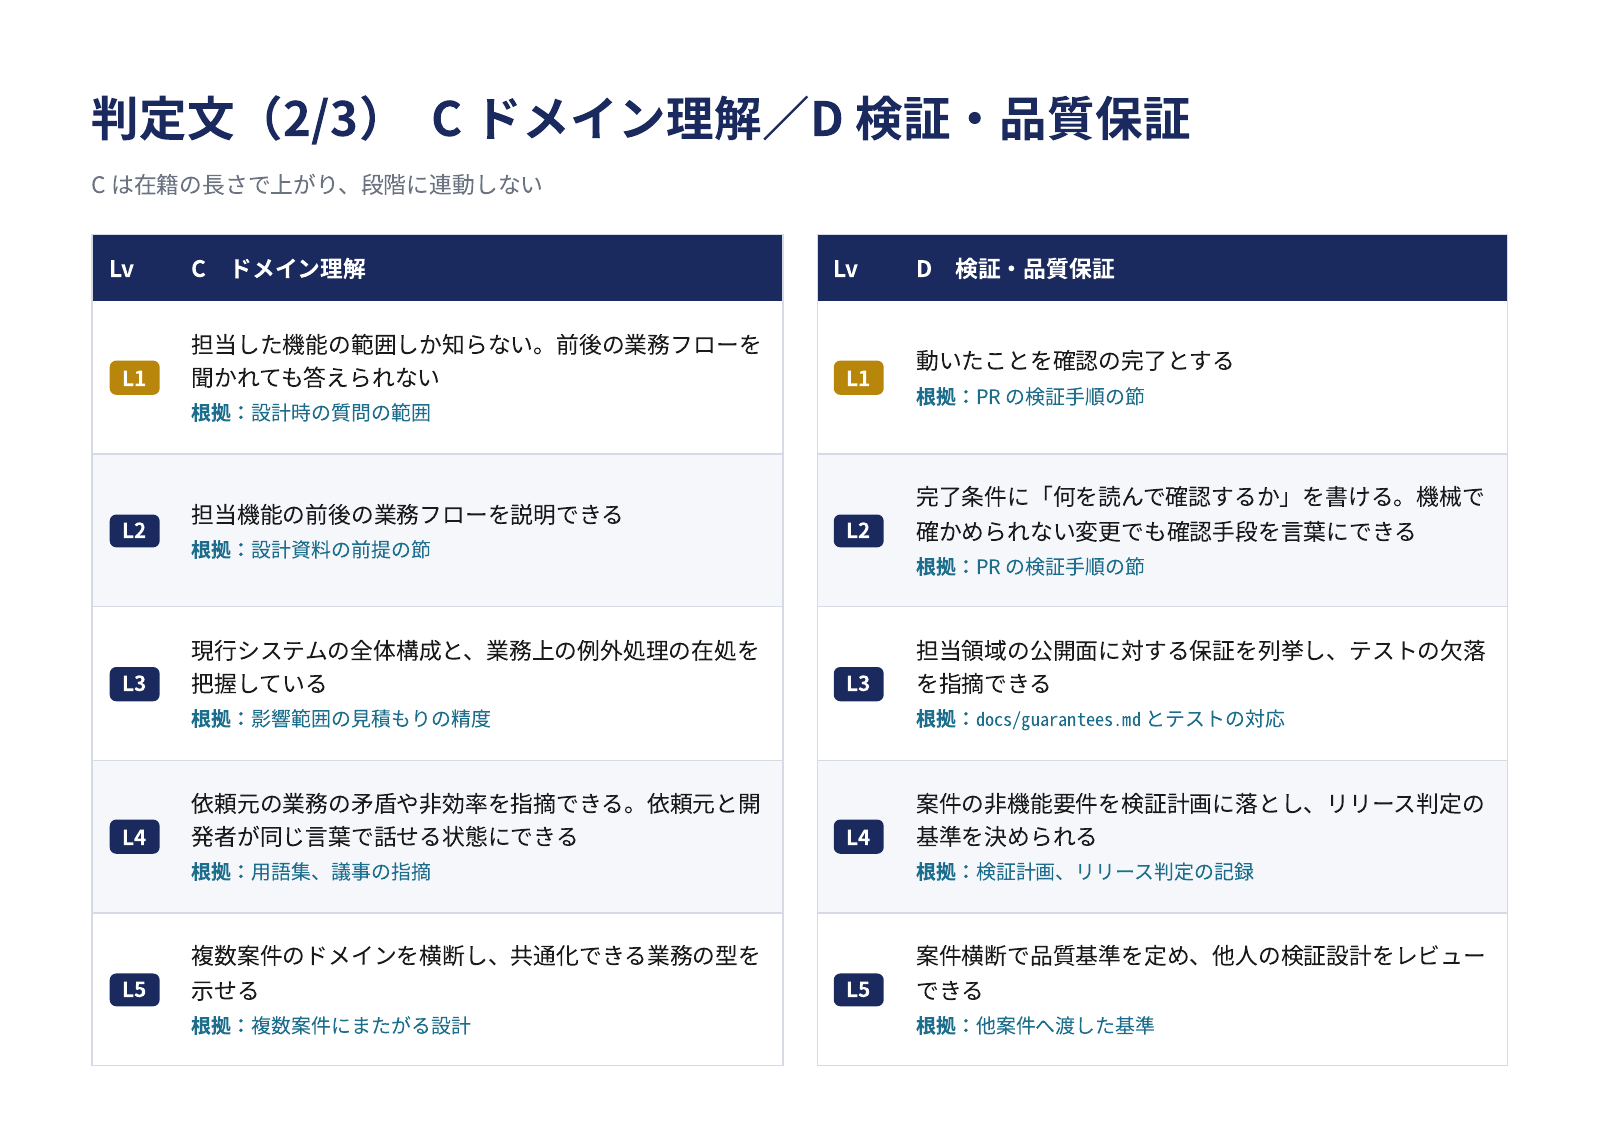
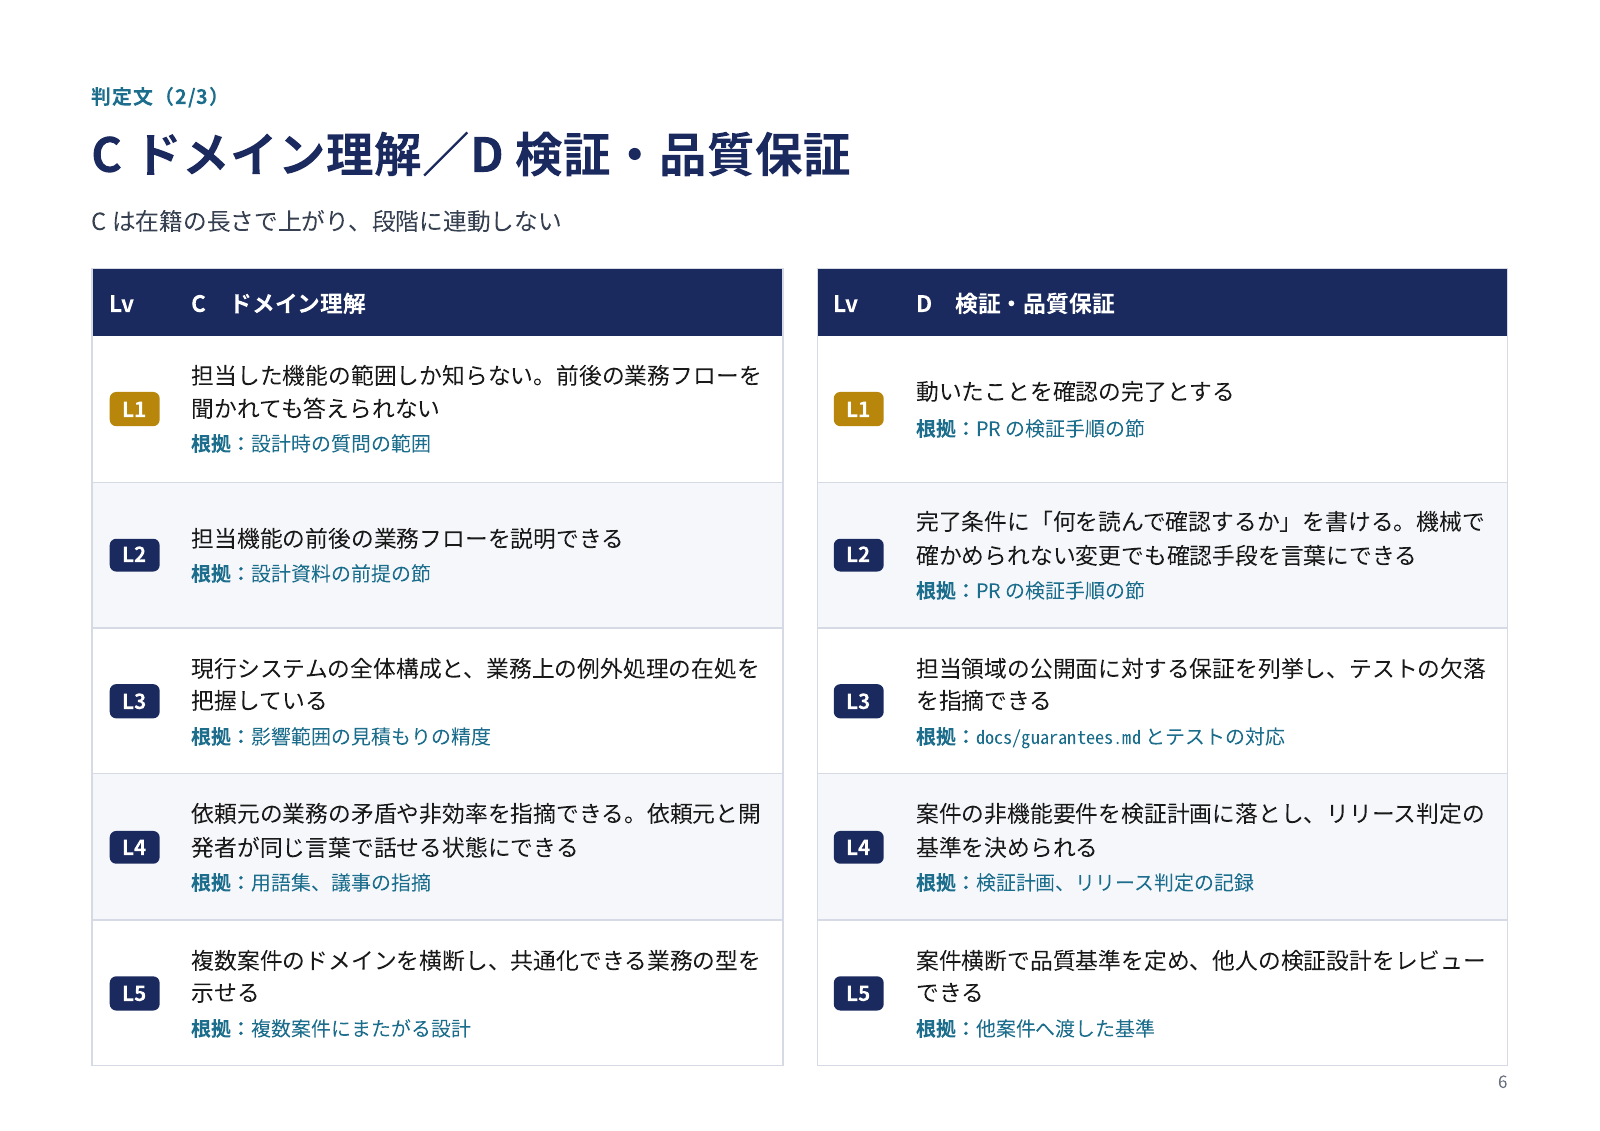
Add page numbers and section labels to ladder slides
training のスライドにそろえ、右下のページ番号とタイトル上の小見出しを足した。

- ページ番号は手で振らず、表紙を除いた通し番号を CSS の counter で付けた
- 「評価の軸：5軸」「判定文（1/3）　A …」のようにタイトルへ詰めていた分類を小見出しへ出し、タイトルを中身を言う文にした
- フォントに Windows と Mac の代替を足し、サブタイトルを濃い色にした
- 小見出しの分だけ下がはみ出した7・8枚目の余白を詰め、PNG を作り直した

diff --git a/ladder/slides.html b/ladder/slides.html
@@ -8,14 +8,16 @@
   --navy:#1B2A5E; --navy2:#2A3B75; --teal:#1C6E8C; --gold:#B8860B;
   --grey:#6B7280; --light:#EEF2F8; --row:#F5F7FB; --bordr:#D5DAE5; --crim:#9B2C2C;
 }
+/* ブラウザ既定では背景色を印刷しない。印刷ダイアログ側の指定と併せて要る */
 html{ -webkit-print-color-adjust:exact; print-color-adjust:exact; }
 body{
-  font-family:"Noto Sans CJK JP","Noto Sans JP",sans-serif;
+  font-family:"Noto Sans CJK JP","Noto Sans JP","Yu Gothic UI","Hiragino Sans","Meiryo",sans-serif;
   color:#1A1A1A; background:#8A8F98;
 }
 .page{
   width:297mm; height:210mm; padding:15mm 17mm 12mm; background:#fff;
-  display:flex; flex-direction:column; page-break-after:always; overflow:hidden;
+  display:flex; flex-direction:column; page-break-after:always; overflow:hidden; position:relative;
+  counter-increment:pg;
 }
 .page:last-child{ page-break-after:auto; }
 @media screen{
@@ -23,8 +25,14 @@ body{
   .page{ margin:0 auto 18px; box-shadow:0 2px 14px rgba(0,0,0,.35); }
 }
 h1{ font-size:25pt; font-weight:700; color:var(--navy); letter-spacing:.01em; }
-.sub{ font-size:12pt; color:var(--grey); margin-top:3mm; }
-.head{ margin-bottom:6mm; }
+.sub{ font-size:12.5pt; color:#374151; margin-top:2.5mm; line-height:1.7; }
+.sec{ font-size:10.5pt; font-weight:700; color:var(--teal); letter-spacing:.05em; margin-bottom:1.5mm; }
+/* 番号を手で振らず、表紙を除いた通し番号を CSS で付ける */
+body{ counter-reset:pg; }
+.page:not(.cover)::after{ content:counter(pg); position:absolute; right:17mm; bottom:7mm;
+  font-size:9pt; color:var(--grey); }
+.head{ margin-bottom:5mm; }
+table.tight tbody td{ padding-top:2.2mm; padding-bottom:2.2mm; }
 .body{ flex:1; display:flex; flex-direction:column; }
 .foot{ margin-top:auto; padding-top:5mm; }
 
@@ -123,6 +131,7 @@ li::before{ content:""; position:absolute; left:.4mm; top:calc(.5lh - .75mm);
 <!-- 2 3つの用途 -->
 <section class="page">
   <div class="head">
+    <div class="sec">全体</div>
     <h1>評価・育成・採用に、同じ5軸を使う</h1>
     <div class="sub">3つを別々の制度にしない。軸と段階は共通で、材料だけが替わる</div>
   </div>
@@ -148,8 +157,9 @@ li::before{ content:""; position:absolute; left:.4mm; top:calc(.5lh - .75mm);
 <!-- 3 5軸 -->
 <section class="page">
   <div class="head">
-    <h1>評価の軸：5軸</h1>
-    <div class="sub">態度ではなく、成果物で確かめられるものだけを軸にする</div>
+    <div class="sec">評価の軸</div>
+    <h1>成果物で確かめられるものだけを5つの軸にする</h1>
+    <div class="sub">上流・型の運用・ドメイン・検証・基盤。態度は軸にしない</div>
   </div>
   <div class="body">
     <table style="flex:1">
@@ -174,8 +184,9 @@ li::before{ content:""; position:absolute; left:.4mm; top:calc(.5lh - .75mm);
 <!-- 4 段階 -->
 <section class="page">
   <div class="head">
-    <h1>段階：L1〜L5</h1>
-    <div class="sub">尺度は「依頼元に対して、どこまで一人で任せられるか」</div>
+    <div class="sec">段階</div>
+    <h1>依頼元に対して、どこまで一人で任せられるかで段階を区切る</h1>
+    <div class="sub">1人の段階は A と B の低いほうで決める。依頼元に対して任せられる部分を A、チームの型の中で任せられる部分を B が測る</div>
   </div>
   <div class="body">
     <table style="flex:1">
@@ -195,14 +206,15 @@ li::before{ content:""; position:absolute; left:.4mm; top:calc(.5lh - .75mm);
       <div class="callout"><div class="t">L2 は型を理解すれば届く</div>判定文は型が実際に強制するものだけで書いてある。理解した人が届かないなら、<b>直すのは人ではなく判定文か型の側</b>である。</div>
       <div class="callout"><div class="t">L5 の行は到達点</div>5本がすべて真になる人を探すためではなく、<b>どの軸がどれだけ足りないか</b>を言うために使う。</div>
     </div>
-    <div class="note">※ 1人の段階は A と B の低いほうで決める。依頼元に対して任せられる部分を A、チームの型の中で任せられる部分を B が測る。<br>※ 報酬帯との対応は持たない。段階と報酬の結び付け方は各社で違い、評価基準の側に固定すると持ち込めなくなる。</div>
+    <div class="note">※ 報酬帯との対応は持たない。段階と報酬の結び付け方は各社で違い、評価基準の側に固定すると持ち込めなくなる。</div>
   </div>
 </section>
 
 <!-- 5 判定文 A・B -->
 <section class="page">
   <div class="head">
-    <h1>判定文（1/3）　A 上流・提案と関係者調整／B 型の運用</h1>
+    <div class="sec">判定文（1/3）</div>
+    <h1>A 上流・提案と関係者調整／B 型の運用</h1>
     <div class="sub">評価者の解釈に委ねる語を使わず、リポジトリの何を開けば真偽が確かめられるかで書く</div>
   </div>
   <div class="body">
@@ -234,7 +246,8 @@ li::before{ content:""; position:absolute; left:.4mm; top:calc(.5lh - .75mm);
 <!-- 6 判定文 C・D -->
 <section class="page">
   <div class="head">
-    <h1>判定文（2/3）　C ドメイン理解／D 検証・品質保証</h1>
+    <div class="sec">判定文（2/3）</div>
+    <h1>C ドメイン理解／D 検証・品質保証</h1>
     <div class="sub">C は在籍の長さで上がり、段階に連動しない</div>
   </div>
   <div class="body">
@@ -266,8 +279,8 @@ li::before{ content:""; position:absolute; left:.4mm; top:calc(.5lh - .75mm);
 <!-- 7 判定文 E と採点の原則 -->
 <section class="page">
   <div class="head">
-    <h1>判定文（3/3）　E インフラ・基盤／採点の原則</h1>
-    <div class="sub">採点は能力で判定し、5軸を平均しない</div>
+    <div class="sec">判定文（3/3）</div>
+    <h1>E インフラ・基盤／採点の原則</h1>
   </div>
   <div class="body">
     <div style="display:flex;gap:6mm;flex:1">
@@ -289,7 +302,7 @@ li::before{ content:""; position:absolute; left:.4mm; top:calc(.5lh - .75mm);
             <li><b>軸ごとに L2 から順に真偽を見る。</b>偽になった手前がその軸の点になる</li>
             <li><b>証拠が無い軸は「未観測」として残す。</b>点で埋めない。育成では機会を配れば分かる軸、選考では面接で聞く軸を指す</li>
             <li><b>5軸の平均を取らない。</b>凸凹が消え、次に何をするかが分からなくなる</li>
-            <li><b>段階は A と B の低いほうで決める。</b>C・D・E は段階に入れない</li>
+            <li><b>段階は A と B の低いほうで決める。</b></li>
           </ul>
         </div>
       </div>
@@ -304,11 +317,12 @@ li::before{ content:""; position:absolute; left:.4mm; top:calc(.5lh - .75mm);
 <!-- 8 ペルソナ -->
 <section class="page">
   <div class="head">
-    <h1>各段階の参照ペルソナ</h1>
-    <div class="sub">実在の人物を当てず、評価基準の側で固定した架空の人物。実在の人は軸ごとに凸凹するので、全軸が揃った人物は置いていない</div>
+    <div class="sec">参照ペルソナ</div>
+    <h1>各段階に1人ずつ架空の人物を置く</h1>
+    <div class="sub">実在の人物を当てず、評価基準の側で固定する。実在の人は軸ごとに凸凹するので、全軸が揃った人物は置いていない</div>
   </div>
   <div class="body">
-    <table style="flex:1">
+    <table class="tight" style="flex:1">
       <thead><tr>
         <th style="width:14mm">Lv</th>
         <th class="num" style="width:7mm">A</th><th class="num" style="width:7mm">B</th><th class="num" style="width:7mm">C</th><th class="num" style="width:7mm">D</th><th class="num" style="width:7mm">E</th>
@@ -347,6 +361,7 @@ li::before{ content:""; position:absolute; left:.4mm; top:calc(.5lh - .75mm);
 <!-- 10 型と道具 -->
 <section class="page">
   <div class="head">
+    <div class="sec">運用</div>
     <h1>型を配り、成果物と記録で判定する</h1>
     <div class="sub">評価・育成・採用が同じ成果物と記録を材料にする</div>
   </div>

diff --git a/ladder/README.md b/ladder/README.md
@@ -8,9 +8,9 @@
 
 ![2. 評価・育成・採用に、同じ5軸を使う](slides/02.png)
 
-![3. 評価の軸：5軸](slides/03.png)
+![3. 成果物で確かめられるものだけを5つの軸にする](slides/03.png)
 
-![4. 段階：L1〜L5](slides/04.png)
+![4. 依頼元に対して、どこまで一人で任せられるかで段階を区切る](slides/04.png)
 
 ![5. 判定文（1/3） A 上流・提案と関係者調整／B 型の運用](slides/05.png)
 
@@ -18,6 +18,6 @@
 
 ![7. 判定文（3/3） E インフラ・基盤／採点の原則](slides/07.png)
 
-![8. 各段階の参照ペルソナ](slides/08.png)
+![8. 各段階に1人ずつ架空の人物を置く](slides/08.png)
 
 ![9. 型を配り、成果物と記録で判定する](slides/09.png)
